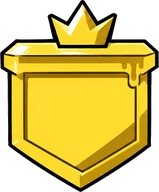
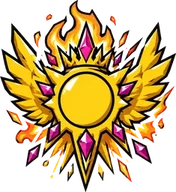
feat: rank badges v2 — five escalating silhouettes, #1 one-of-one with shine
Splat #26-50, lightning star #11-25, flame shield #4-10, winged crest #2-3,
crowned winged gold starburst #1 (one finite shine sweep on appear).
Replaces the gold/silver/bronze shields + recoloured seals.

diff --git a/src/leaderboard/nameTier.js b/src/leaderboard/nameTier.js
@@ -2,29 +2,32 @@
 // addictive high for being highly ranked"). Research (shared notes lb-name-prestige-research.md): the strongest prestige
 // marks are SCARCE hard-cutoff tiers that print your EXACT place (Apex top-750 / OW Top 500 / Clash top-1000 badges) on a
 // distinct painted silhouette, and the moment you get IN is a ceremony of its own.
-//   crown  #1        — the crowned gold shield (and the name in Bungee Shade)
-//   silver #2, bronze #3 — the podium shields
-//   gold   #4–10, cyan #11–25, violet #26–50 — the notched seals (the board's existing band colours)
+// v2 (Andy oct22 "gold silver bronze and then some bs design" → shared notes seals-research.md): every tier is a DIFFERENT
+// SILHOUETTE that escalates — recolors don't read as rank. Mass, aggression and ornament climb; wings only on the podium,
+// the crown only on #1:
+//   splat  #26–50  violet ink-splat tag (drips + overspray)
+//   star   #11–25  cyan jagged lightning star
+//   flame  #4–10   orange hex shield crowned with flames
+//   wing   #2–3    pink winged diamond crest
+//   crown  #1      the one-of-one: gold winged, crowned, flaming starburst (+ a one-shot shine on appear)
 //   past #50: no seal — the plain number (scarcity is the point)
 // Pure (no DOM): the board, the profile card and the tests all read it.
 
 export const SEAL_ART = {
   crown: '/lb/seal-crown.webp',
-  silver: '/lb/seal-silver.webp',
-  bronze: '/lb/seal-bronze.webp',
-  gold: '/lb/seal-gold.webp',
-  cyan: '/lb/seal-cyan.webp',
-  violet: '/lb/seal-violet.webp',
+  wing: '/lb/seal-wing.webp',
+  flame: '/lb/seal-flame.webp',
+  star: '/lb/seal-star.webp',
+  splat: '/lb/seal-splat.webp',
 };
 
 // best first: a lower index is a higher tier
 export const NAME_TIERS = [
   { key: 'crown', top: 1, label: '#1' },
-  { key: 'silver', top: 2, label: 'TOP 3' },
-  { key: 'bronze', top: 3, label: 'TOP 3' },
-  { key: 'gold', top: 10, label: 'TOP 10' },
-  { key: 'cyan', top: 25, label: 'TOP 25' },
-  { key: 'violet', top: 50, label: 'TOP 50' },
+  { key: 'wing', top: 3, label: 'TOP 3' },
+  { key: 'flame', top: 10, label: 'TOP 10' },
+  { key: 'star', top: 25, label: 'TOP 25' },
+  { key: 'splat', top: 50, label: 'TOP 50' },
 ];
 
 /** The tier a board rank wears, or null past #50 / for no rank. */
@@ -41,16 +44,12 @@ const tierIndex = (rank) => {
 
 /**
  * THE "YOU GOT IN" MOMENT: the tier you just climbed INTO, or null. `from` = your rank at the last look (null / 0 = no
- * last look → no ceremony: a first visit is not a climb). #2 ↔ #3 are one tier for this (the podium), so a #3 → #2 swap
- * is a climb on the board but not a new tier.
+ * last look → no ceremony: a first visit is not a climb). #2 ↔ #3 share the wing tier, so a #3 → #2 swap is a climb on
+ * the board but not a new tier.
  */
 export function enteredTier(from, to) {
   const f = Number(from);
   if (!(f >= 1) || !(Number(to) >= 1)) return null;
-  const a = tierIndex(f);
-  const b = tierIndex(to);
-  const podium = (i) => (i === 1 || i === 2 ? 1 : i);
-  if (podium(b) >= podium(a)) return null;
-  const t = nameTier(to);
-  return t;
+  if (tierIndex(to) >= tierIndex(f)) return null;
+  return nameTier(to);
 }

diff --git a/src/leaderboard/RankSeal.css b/src/leaderboard/RankSeal.css
@@ -1,7 +1,9 @@
-/* RankSeal — size with --seal-k (unitless; 1 = a 40px seal); the number is laid out for 40px and scaled with it
-   (transform, so the type scale keeps bare tokens). Static at rest — no loops. */
+/* RankSeal — size with --seal-k (unitless; 1 = a 40px badge); the number is laid out for 40px and scaled with it
+   (transform, so the type scale keeps bare tokens). Static at rest — the only motion here is #1's ONE shine sweep. */
 .rseal {
   --seal-k: 1;
+  --nx: 0px; /* where each art's blank panel sits, from the box centre (40px units) */
+  --ny: 0px;
   position: relative;
   flex: 0 0 auto;
   width: calc(40px * var(--seal-k));
@@ -11,28 +13,58 @@
   line-height: 1;
   vertical-align: middle;
 }
-.rseal-art {
+.rseal-art,
+.rseal-shine {
   position: absolute;
   inset: 0;
   width: 100%;
   height: 100%;
-  object-fit: contain;
   pointer-events: none;
 }
+.rseal-art { object-fit: contain; }
 .rseal-n {
   position: relative;
+  left: calc(var(--nx) * var(--seal-k));
+  top: calc(var(--ny) * var(--seal-k));
   font-family: var(--k-display, 'Bungee', cursive); text-transform: uppercase;
   font-weight: 400;
-  font-size: var(--fs-k20);
+  font-size: var(--fs-k18);
   color: #fff;
   -webkit-text-stroke: 4px #000;
   paint-order: stroke fill;
   text-shadow: 2px 2px 0 #000;
-  transform: scale(var(--seal-k));
+  transform: scale(var(--num-k, var(--seal-k)));
 }
-.rseal[data-digits='2'] .rseal-n { font-size: var(--fs-k16); }
+.rseal[data-digits='2'] .rseal-n { font-size: var(--fs-k15); }
 .rseal[data-digits='3'] .rseal-n { font-size: var(--fs-k13); }
-/* the number sits on each art's blank panel (the crown pushes #1's panel down; the shields' panels sit high) */
-.rseal[data-tier='crown'] .rseal-n { top: calc(5px * var(--seal-k)); }
-.rseal[data-tier='silver'] .rseal-n,
-.rseal[data-tier='bronze'] .rseal-n { top: calc(-2px * var(--seal-k)); }
+.rseal[data-tier='splat'] { --ny: -3px; }
+.rseal[data-tier='flame'] { --ny: 3.5px; }
+.rseal[data-tier='crown'] { --ny: 1px; }
+
+/* #1 is the one-of-one: the art runs a touch past its box, and on appear ONE white glint sweeps across it (masked to
+   the art, so it never lights the row). Finite, transform/opacity only; reduced motion skips it. */
+.rseal[data-tier='crown'] .rseal-art,
+.rseal[data-tier='crown'] .rseal-shine { transform: scale(1.14); }
+.rseal-shine {
+  overflow: hidden;
+  -webkit-mask: url('/lb/seal-crown.webp') center / contain no-repeat;
+  mask: url('/lb/seal-crown.webp') center / contain no-repeat;
+}
+.rseal-shine > i {
+  position: absolute;
+  top: -10%;
+  bottom: -10%;
+  left: 0;
+  width: 28%;
+  background: #fff;
+  opacity: 0;
+  transform: translateX(-150%) skewX(-20deg);
+  animation: rseal-shine 640ms cubic-bezier(.4, 0, .2, 1) var(--shine-at, 1100ms) 1 both;
+}
+@keyframes rseal-shine {
+  0% { opacity: 0.85; transform: translateX(-150%) skewX(-20deg); }
+  100% { opacity: 0.85; transform: translateX(480%) skewX(-20deg); }
+}
+@media (prefers-reduced-motion: reduce) {
+  .rseal-shine { display: none; }
+}

diff --git a/src/components/LeaderboardV2.css b/src/components/LeaderboardV2.css
@@ -1015,25 +1015,24 @@
 .lb2:not(.lb2--narrow) .lb2-me-v { grid-area: v; min-width: 0; font-size: var(--fs-k18); }
 
 /* ---- NAME PRESTIGE (Andy oct21 "make people feel even better for being top"; nameTier.js + RankSeal) ----
-   Top 50 rows: the rank number becomes its painted numbered seal (gold #4–10, cyan #11–25, violet #26–50).
-   Top 10 names print gold. The podium names wear their shield (crown / silver / bronze); #1's name is set in
-   Bungee Shade (a distinct SILHOUETTE, not just a colour) and #2 / #3 take the silver / bronze ink.
+   Top 50 rows: the rank number becomes its painted numbered badge — v2 oct22, five escalating silhouettes (splat
+   #26–50, star #11–25, flame #4–10, winged crest #2–3, the crowned one-of-one #1). Top 10 names print gold. #1's
+   podium name is set in Bungee Shade and #2 / #3 take the winged crest's pink.
    Static at rest — the stamps and the NEW-TIER slam are kitPlay one-shots in LeaderboardV2.jsx. */
 .lb2-rk.has-seal { background: none; padding: 0; min-width: 0; height: auto; overflow: visible; }
 .lb2-row.is-me .lb2-rk.has-seal { background: none; padding: 0; }
-.lb2 .lb2-seal { --seal-k: calc(1.12 * var(--lb2-k)); }
+.lb2 .lb2-seal { --seal-k: calc(1.28 * var(--lb2-k)); }
 .lb2-row.is-me .lb2-seal { --seal-k: calc(1.4 * var(--lb2-k)); }
-.lb2--narrow .lb2 .lb2-seal, .lb2--narrow .lb2-seal { --seal-k: 0.8; }
-.lb2--narrow .lb2-row.is-me .lb2-seal { --seal-k: 0.98; }
-.lb2-row[data-tier='gold']:not(.is-me) .lb2-name { color: #FFE94A; -webkit-text-stroke: 3px #000; paint-order: stroke fill; }
+.lb2--narrow .lb2 .lb2-seal, .lb2--narrow .lb2-seal { --seal-k: 0.95; --num-k: 0.85; }
+.lb2--narrow .lb2-row.is-me .lb2-seal { --seal-k: 1.08; --num-k: 0.98; }
+.lb2-row[data-tier='flame']:not(.is-me) .lb2-name { color: #FFE94A; -webkit-text-stroke: 3px #000; paint-order: stroke fill; }
 
-.lb2 .lb2-pod-seal { --seal-k: calc(0.95 * var(--pk, 1)); }
-.lb2 .lb2-col--1 .lb2-pod-seal { --seal-k: calc(1.15 * var(--pk, 1)); }
+.lb2 .lb2-pod-seal { --seal-k: calc(1.15 * var(--pk, 1)); --num-k: calc(1.0 * var(--pk, 1)); --shine-at: 1750ms; }
+.lb2 .lb2-col--1 .lb2-pod-seal { --seal-k: calc(1.5 * var(--pk, 1)); --num-k: calc(1.1 * var(--pk, 1)); }
 .lb2--narrow .lb2-pod-seal { --seal-k: 0.7; }
 .lb2--narrow .lb2-col--1 .lb2-pod-seal { --seal-k: 0.8; }
 .lb2-col[data-tier='crown'] .lb2-pod-name-t { font-family: var(--k-shade); color: #FFE94A; }
-.lb2-col[data-tier='silver'] .lb2-pod-name-t { color: #DCE1F0; }
-.lb2-col[data-tier='bronze'] .lb2-pod-name-t { color: #FF9A5C; }
+.lb2-col[data-tier='wing'] .lb2-pod-name-t { color: #FF4FA3; }
 .lb2-col.is-me .lb2-pod-name-t { color: #000; }
 
 .lb2-new-tier {

diff --git a/src/leaderboard/RankSeal.jsx b/src/leaderboard/RankSeal.jsx
@@ -1,7 +1,8 @@
-// RankSeal — the painted NUMBERED seal a top-50 name wears (nameTier.js): the crowned gold shield for #1, silver /
-// bronze shields for #2 / #3, the gold / cyan / violet notched seals for #4–10 / 11–25 / 26–50, the exact rank printed on
-// it. Past #50 it renders nothing (the caller keeps its plain number). The art is public/lb/seal-*.webp (ChatGPT oct21,
-// cut by scripts/split-sheet.py); CSS only sizes it and prints the number. Motion is the caller's (kitPlay one-shots).
+// RankSeal — the painted NUMBERED badge a top-50 name wears (nameTier.js). v2 (oct22): five escalating SILHOUETTES, not
+// recolors — violet splat tag #26–50 → cyan lightning star #11–25 → flame shield #4–10 → pink winged crest #2–3 → the
+// one-of-one gold winged crowned starburst #1. The exact rank is printed on each art's blank panel. Past #50 it renders
+// nothing (the caller keeps its plain number). Art: public/lb/seal-*.webp (ChatGPT oct22, one sheet, cut to transparent).
+// CSS only sizes it, prints the number and — #1 only — runs ONE finite shine sweep on mount. Other motion is the caller's.
 import { nameTier, SEAL_ART } from './nameTier.js';
 import { formatNum } from '../format';
 import './RankSeal.css';
@@ -12,7 +13,8 @@ export default function RankSeal({ rank, className = '', ...rest }) {
   const n = formatNum(Number(rank));
   return (
     <span className={`rseal ${className}`} data-tier={t.key} data-digits={Math.min(3, String(n).length)} aria-label={`rank ${n}`} {...rest}>
-      <img className="rseal-art" src={SEAL_ART[t.key]} alt="" aria-hidden="true" draggable="false" width="192" height="190" />
+      <img className="rseal-art" src={SEAL_ART[t.key]} alt="" aria-hidden="true" draggable="false" />
+      {t.key === 'crown' ? <span className="rseal-shine" aria-hidden="true"><i /></span> : null}
       <b className="rseal-n" aria-hidden="true">{n}</b>
     </span>
   );

diff --git a/src/leaderboard/nameTier.test.js b/src/leaderboard/nameTier.test.js
@@ -5,18 +5,18 @@ import { nameTier, enteredTier, NAME_TIERS, SEAL_ART } from './nameTier.js';
 test('ranks map to the hard-cutoff tiers', () => {
   const k = (r) => (nameTier(r) ? nameTier(r).key : null);
   assert.equal(k(1), 'crown');
-  assert.equal(k(2), 'silver');
-  assert.equal(k(3), 'bronze');
-  assert.equal(k(4), 'gold');
-  assert.equal(k(10), 'gold');
-  assert.equal(k(11), 'cyan');
-  assert.equal(k(25), 'cyan');
-  assert.equal(k(26), 'violet');
-  assert.equal(k(50), 'violet');
+  assert.equal(k(2), 'wing');
+  assert.equal(k(3), 'wing');
+  assert.equal(k(4), 'flame');
+  assert.equal(k(10), 'flame');
+  assert.equal(k(11), 'star');
+  assert.equal(k(25), 'star');
+  assert.equal(k(26), 'splat');
+  assert.equal(k(50), 'splat');
   assert.equal(k(51), null);
   assert.equal(k(0), null);
   assert.equal(k(null), null);
-  assert.equal(k('7'), 'gold');
+  assert.equal(k('7'), 'flame');
 });
 
 test('every tier has painted art', () => {
@@ -24,9 +24,9 @@ test('every tier has painted art', () => {
 });
 
 test('enteredTier: only a climb INTO a better tier is a ceremony', () => {
-  assert.equal(enteredTier(12, 9).key, 'gold');
-  assert.equal(enteredTier(60, 48).key, 'violet');
-  assert.equal(enteredTier(60, 3).key, 'bronze');
+  assert.equal(enteredTier(12, 9).key, 'flame');
+  assert.equal(enteredTier(60, 48).key, 'splat');
+  assert.equal(enteredTier(60, 3).key, 'wing');
   assert.equal(enteredTier(2, 1).key, 'crown');
   assert.equal(enteredTier(9, 4), null); // same tier
   assert.equal(enteredTier(3, 2), null); // podium swap
